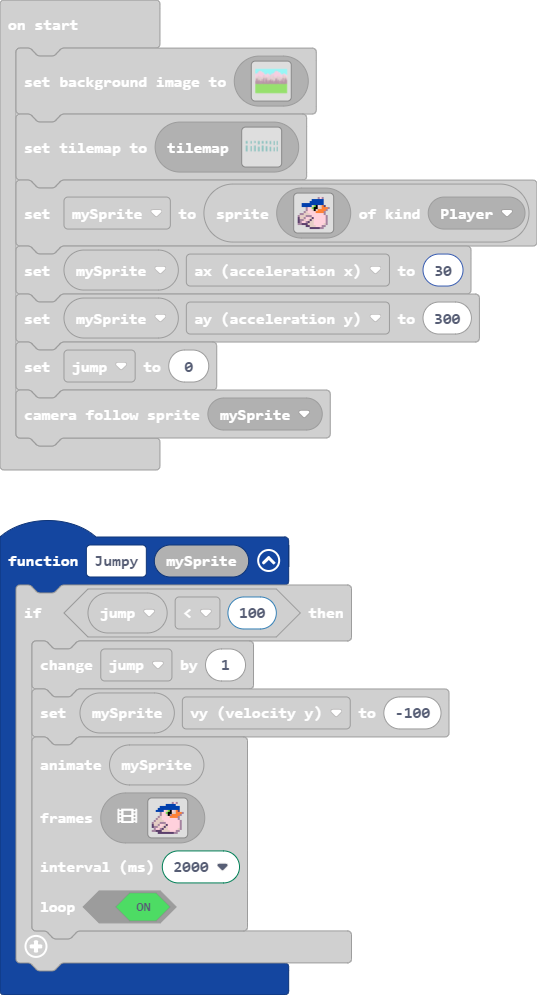
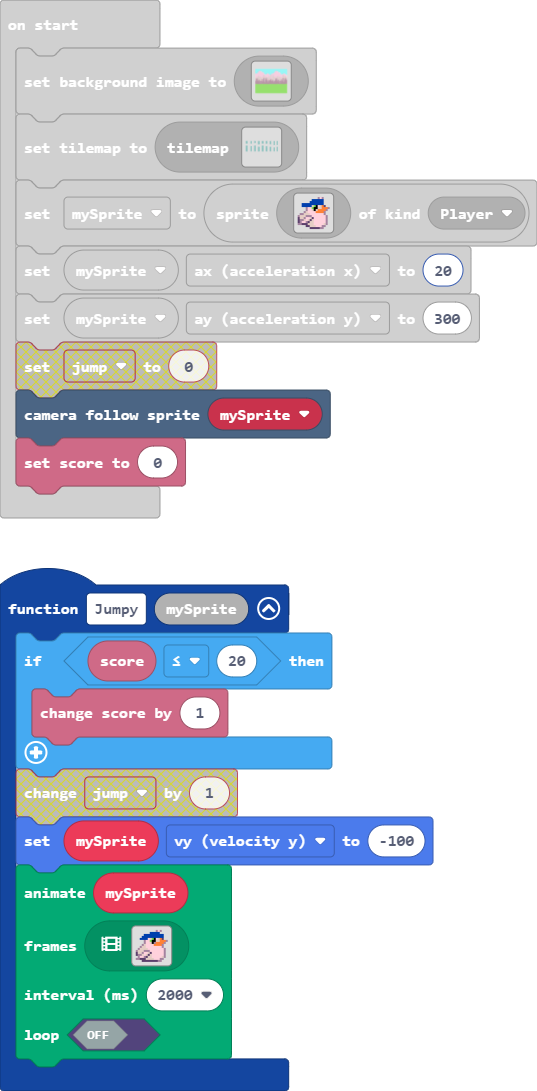
Update main.blocks, main.ts

diff --git a/main.ts b/main.ts
@@ -1,6 +1,6 @@
 function Jumpy (mySprite: Sprite) {
-    if (jump < 100) {
-        jump += 1
+    if (info.score() <= 20) {
+        info.changeScoreBy(1)
         mySprite.vy = -100
         animation.runImageAnimation(
         mySprite,
@@ -57,14 +57,13 @@ function Jumpy (mySprite: Sprite) {
             . . . . . . . . . . . . . . . . 
             `],
         2000,
-        true
+        false
         )
     }
 }
 controller.A.onEvent(ControllerButtonEvent.Pressed, function () {
     Jumpy(mySprite)
 })
-let jump = 0
 let mySprite: Sprite = null
 scene.setBackgroundImage(img`
     9999999999999999999999999999999999999999999999999999999999999999999999999999999999999999999999999999999999999999999999999999999999999999999999999999999999999999
@@ -207,7 +206,7 @@ mySprite = sprites.create(img`
     . . . . c c d d d 1 1 1 b b . . 
     . . . . . . c c c c c b b . . . 
     `, SpriteKind.Player)
-mySprite.ax = 30
+mySprite.ax = 20
 mySprite.ay = 300
-jump = 0
+info.setScore(0)
 scene.cameraFollowSprite(mySprite)
